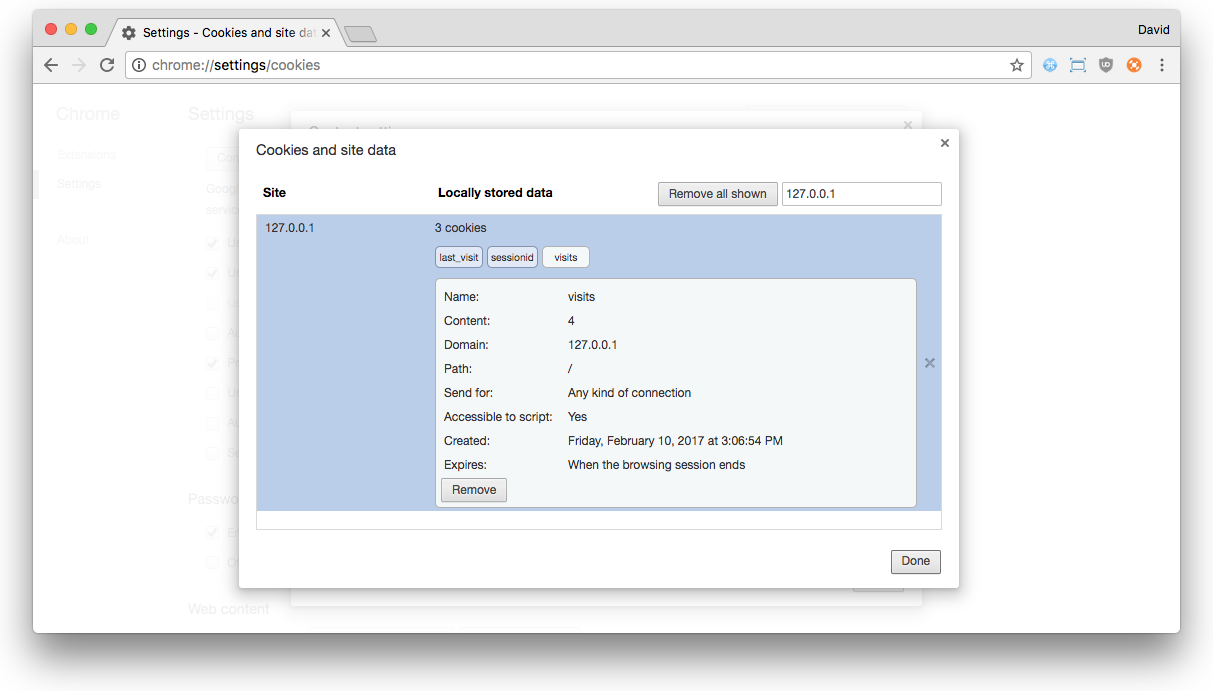
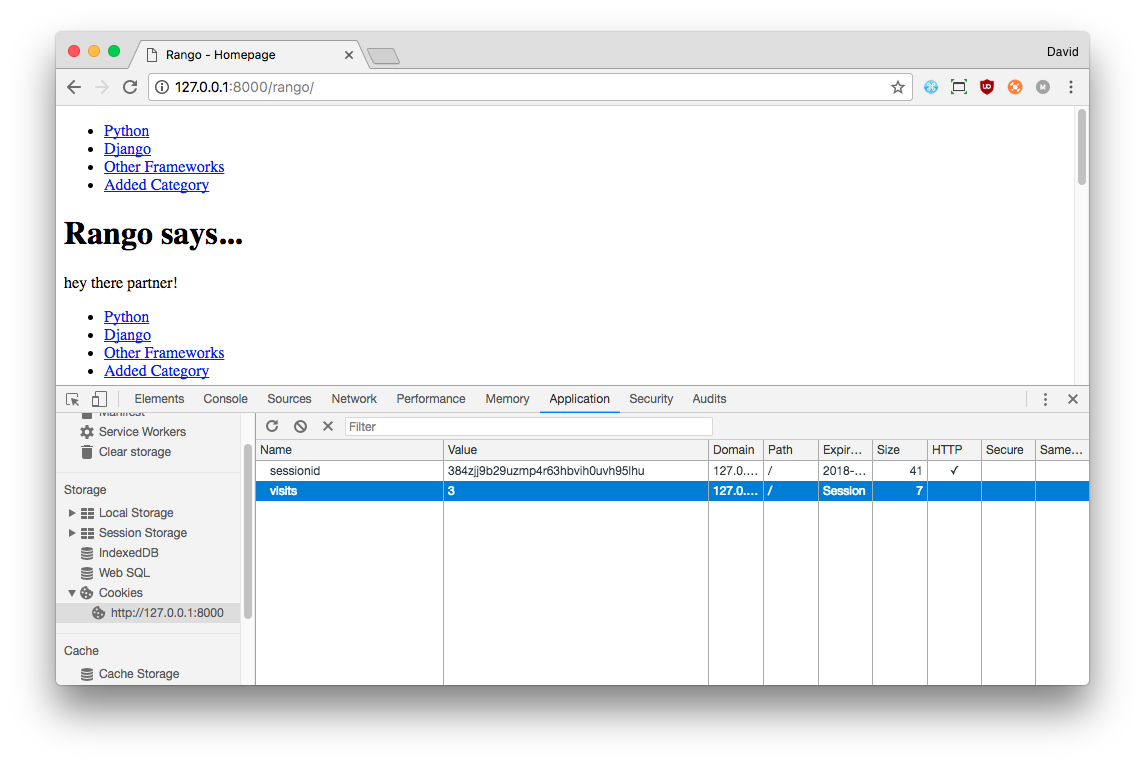
Updated cookies chapter and a type in the templates chapter

diff --git a/manuscript/chapter10-cookies.md b/manuscript/chapter10-cookies.md
@@ -28,13 +28,13 @@ Without a persistent connection between the client and server, the software on b
 
 The most commonly used way of holding state is through the use of a *session ID* stored as a cookie on a client's computer. A session ID can be considered as a token (a sequence of characters, or a *string*) to identify a unique session within a particular Web application. Instead of storing all kinds of information as cookies on the client (such as usernames, names, or passwords), only the session ID is stored, which can then be mapped to a data structure on the Web server. Within that data structure, you can store all of the information you require. This approach is a **much more secure** way to store information about users. This way, the information cannot be compromised by a insecure client or a connection which is being snooped.
 
-If your browser supports cookies, pretty much all websites create a new session for you when you visit. You can see this for yourself now -- check out the [screenshot below](#fig-ch10-sessionid). For Google Chrome, you can view cookies that have been sent by any Web server that you've accessed by opening Chrome's settings page at [`chrome://settings/cookies`](chrome://settings/cookies). This page then lists all cookies currently on your computer, for all sites visited. Filter the cookies with the search box at the top right by entering `127.0.0.1`. You'll then hopefully see a cookie called `sessionid`. The cookie contains a series of letters and numbers that Django uses to uniquely identify your computer with a given session. With this session ID, all your session details can be accessed -- but they are only stored on the *server side*.
+If you're using a modern browser that's properly configured, it'll support cookies. Pretty much every website that you visit will create a new *session* for you when you visit. You can see this for yourself now -- check out the [screenshot below](#fig-ch10-sessionid). For Google Chrome, you can view cookies for the currently open website by accessing Chrome's Developer Tools, by accessing *Chrome Settings > More Tools > Developer Tools*. When the Developer Tools pane opens, click the *Application* tab, and look for *Cookies* down the left hand side, within the *Storage* menu. If you're running this with a Rango page open, you should then hopefully see a cookie called `sessionid`. The `sessionid` cookie contains a series of letters and numbers that Django uses to uniquely identify your computer with a given session. With this session ID, all your session details can be accessed -- but they are only stored on the *server side*.
 
 {id="fig-ch10-sessionid"}
-![A screenshot of Google Chrome showing the `sessionid` cookie.](images/ch10-sessionid.png)
+![A screenshot of Google Chrome's Developer Tools with the `sessionid` cookie highlighted.](images/ch10-sessionid.png)
 
 I> ### Without Cookies
-I> An alternative way of persisting state information *without cookies* is to encode the Session ID within the URL. For example, you may have seen PHP pages with URLs like this one: `http://www.site.com/index.php?sessid=omgPhPwtfIsThisIdDoingHere332i942394`. This means you don't need to store cookies on the client machine, but the URLs become pretty ugly. These URLs go against the principles of Django - clean, human-friendly URLs.
+I> An alternative way of persisting state information *without cookies* is to encode the Session ID within the URL. For example, you may have seen PHP pages with URLs like this one: `http://www.site.com/index.php?sessid=someseeminglyrandomandlongstring1234`. This means you don't need to store cookies on the client machine, but the URLs become pretty ugly. These URLs go against the principles of Django - clean, human-friendly URLs.
 
 ## Setting up Sessions in Django
 Although this should already be setup and working correctly, it's nevertheless good practice to learn which Django modules provide which functionality. In the case of sessions, Django provides [middleware](https://docs.djangoproject.com/en/1.9/topics/http/middleware/) that implements session functionality.
@@ -134,9 +134,9 @@ Next, update the `index()` view to call the `cookie_handler_function()` helper f
 	    return response
 
 {id="fig-ch10-cookie-visits"}
-![A screenshot of Google Chrome with the Developer Tools open showing the cookies for Rango, using the Django development server at `127.0.0.1`. Note the `visits` cookie - the user has visited a total of four times, with each visit at least one day apart.](images/ch10-cookie-visits.png)
+![A screenshot of Google Chrome with the Developer Tools open showing the cookies for Rango, using the Django development server at `127.0.0.1`. Note the `visits` cookie - the user has visited a total of three times, with each visit at least one day apart.](images/ch10-cookie-visits.png)
 
-Now if you visit the Rango homepage and open the cookie inspector provided by your browser (e.g. [`chrome://cookies`](chrome://cookies) in Google Chrome), you should be able to see the cookies `visits` and `last_visit`. The [figure above](#fig-ch10-cookie-visits) demonstrates the cookies in action. Instead of using the developer tools, you could update the `index.html` and add `<p>visits: {{ visits }}</p>` to the template to show the number of visits.
+Now if you visit the Rango homepage and open the cookie inspector provided by your browser (e.g. Google Chrome's Developer Tools), you should be able to see the cookies `visits` and `last_visit`. The [figure above](#fig-ch10-cookie-visits) demonstrates the cookies in action. Instead of using the developer tools, you could update the `index.html` and add `<p>visits: {{ visits }}</p>` to the template to show the number of visits.
 
 
 

diff --git a/manuscript/chapter4-templates-static-media.md b/manuscript/chapter4-templates-static-media.md
@@ -10,9 +10,9 @@ Q> ### Summary: What is a Template?
 Q> In the world of Django, think of a *template* as the scaffolding that is required to build a complete HTML webpage. A template contains the *static parts* of a webpage (that is, parts that never change), complete with special syntax (or *template tags*) which can be overridden and replaced with *dynamic content* that your Django app's views can replace to produce a final HTML response.
 
 ### Configuring the Templates Directory
-To get templates up and running with your Django app, you'll need to create a directory in which template files are stored.
+To get templates up and running with your Django app, you'll need to create two directories in which template files are stored.
 
-In your Django project's directory (e.g. `<workspace>/tango_with_django_project/`), create a new directory called `templates`. Within the new templates directory, create another directory called `rango`. This means that the path `<workspace>/tango_with_django_project/templates/rango/` will be the location in which we will store templates associated with our `rango` application.
+In your Django project's directory (e.g. `<workspace>/tango_with_django_project/`), create a new directory called `templates`. Remember, this is the directory that contains your project's `manage.py` script! Within the new templates directory, create another directory called `rango`. This means that the path `<workspace>/tango_with_django_project/templates/rango/` will be the location in which we will store templates associated with our `rango` application.
 
 T> ### Keep your Templates Organised
 T> It's good practice to separate out your templates into subdirectories for each app you have. This is why we've created a `rango` directory within our `templates` directory. If you package your app up to distribute to other developers, it'll be much easier to know which templates belong to which app!
@@ -46,7 +46,7 @@ Note that you are *required to use absolute paths* to locate the `templates` dir
 {lang="python",linenos=off}
 	'DIRS': [ '/Users/leifos/templates',
 	          '/Users/maxwelld90/templates',
-	          '/Users/clueless_noob/templates', ]
+	          '/Users/davidm/templates', ]
 
 	
 However, there are a number of problems with this. First you have to add in the path for each setting, each time. Second, if you are running the app on different operating systems the backslashes have to be constructed differently.
